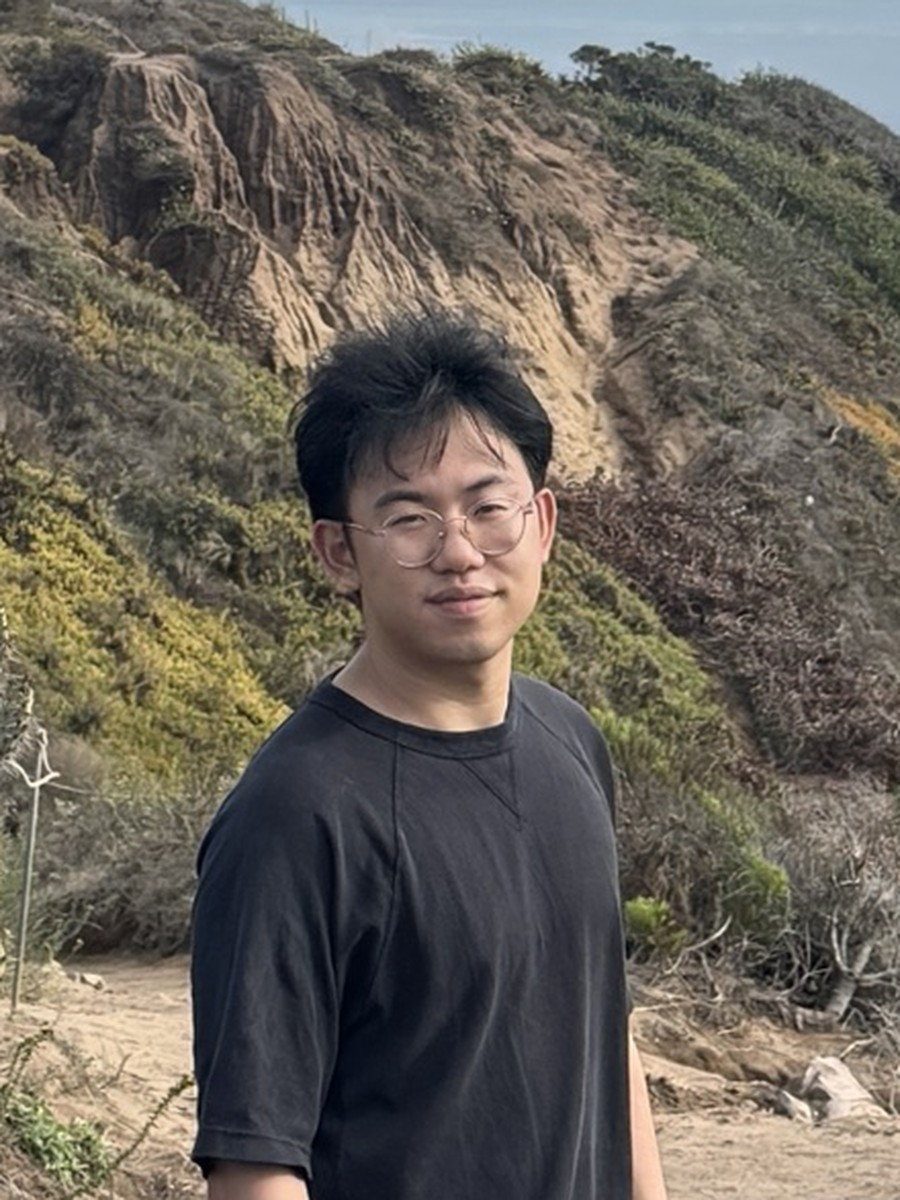
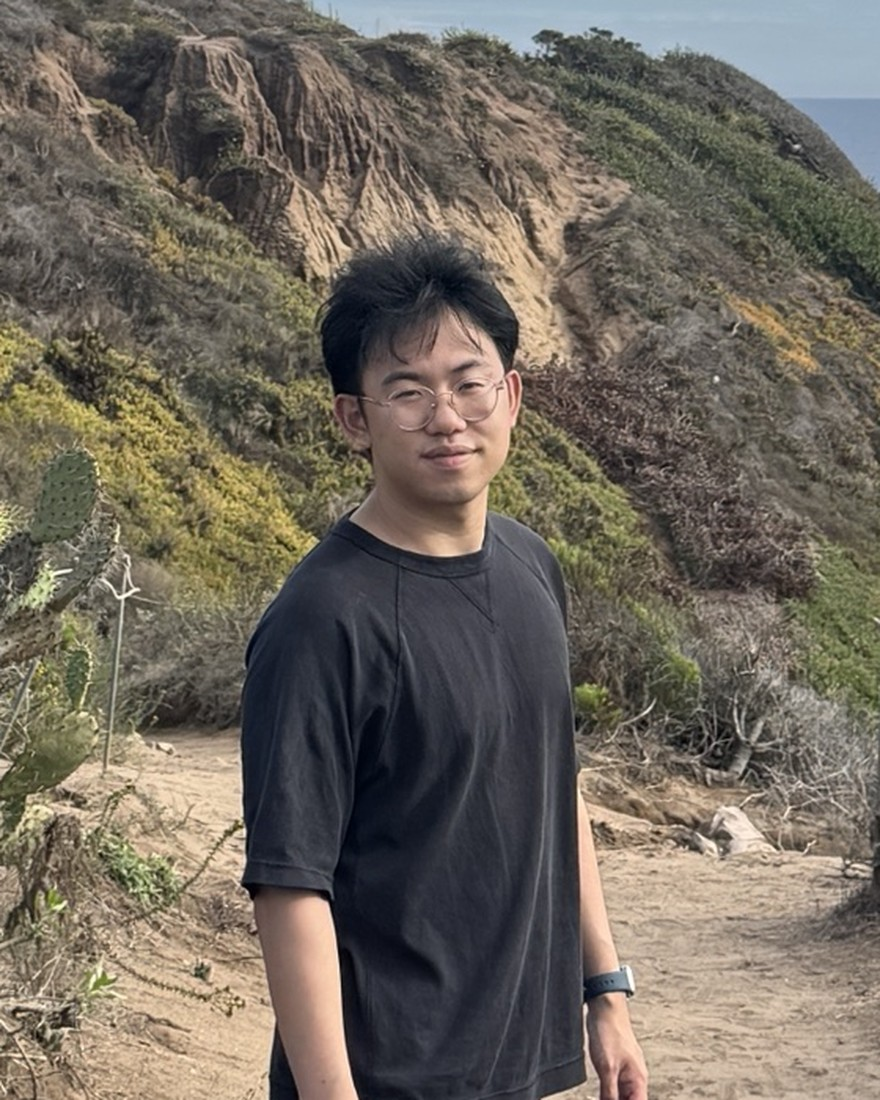
Chest-up crop, 4:5 frame
Claude-Session: https://claude.ai/code/session_01QQRYqYGi5C8uuhsGHPo3jm

diff --git a/assets/style.css b/assets/style.css
@@ -73,7 +73,7 @@ section { padding: 36px 0; }
 .hero .tagline { color: var(--fg-muted); font-size: 1.05rem; margin: 8px 0 4px; }
 .hero .fellow { color: var(--fg-muted); font-size: .92rem; margin: 0 0 16px; }
 .hero .fellow a { color: var(--accent-ink); font-weight: 600; }
-.hero .photo { width: 270px; height: 360px; border-radius: 18px; object-fit: cover; justify-self: end;
+.hero .photo { width: 272px; height: 340px; border-radius: 18px; object-fit: cover; justify-self: end;
   box-shadow: 0 0 0 4px var(--bg), 0 0 0 6px var(--accent), var(--shadow); }
 .hero .jet { position: absolute; right: -40px; top: -20px; width: 520px; height: 360px; pointer-events: none; opacity: .55; z-index: 0; }
 .hero .wrap { position: relative; z-index: 1; }
@@ -96,7 +96,7 @@ section { padding: 36px 0; }
 @media (max-width: 720px) {
   .hero { padding-top: 28px; }
   .hero .wrap { grid-template-columns: 1fr; gap: 20px; }
-  .hero .photo { width: 180px; height: 240px; justify-self: start; order: -1; }
+  .hero .photo { width: 176px; height: 220px; justify-self: start; order: -1; }
   .hero h1 { font-size: 2rem; }
   .hero .jet { width: 420px; right: -230px; top: -110px; opacity: .3; }
 }

diff --git a/index.html b/index.html
@@ -68,7 +68,7 @@
         <a class="btn" href="https://orcid.org/0000-0003-2136-9758" target="_blank" rel="noopener">ORCID</a>
       </div>
     </div>
-    <img class="photo" src="assets/profile.jpg" alt="Aaron Wang" width="270" height="360">
+    <img class="photo" src="assets/profile.jpg" alt="Aaron Wang" width="272" height="340">
   </div>
 </header>
 
